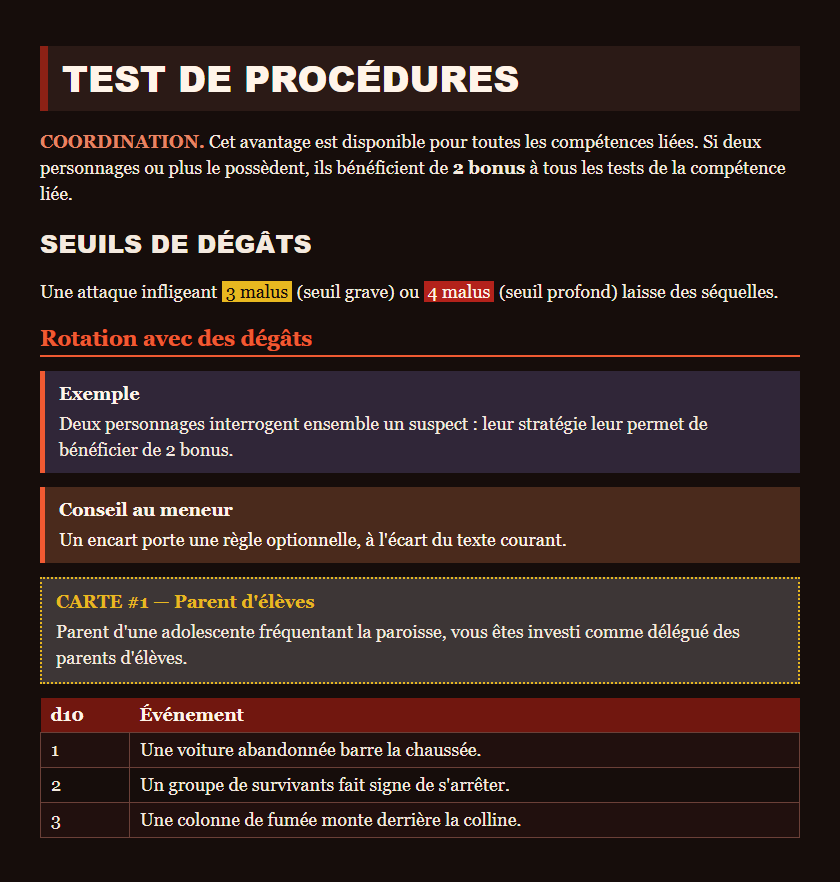
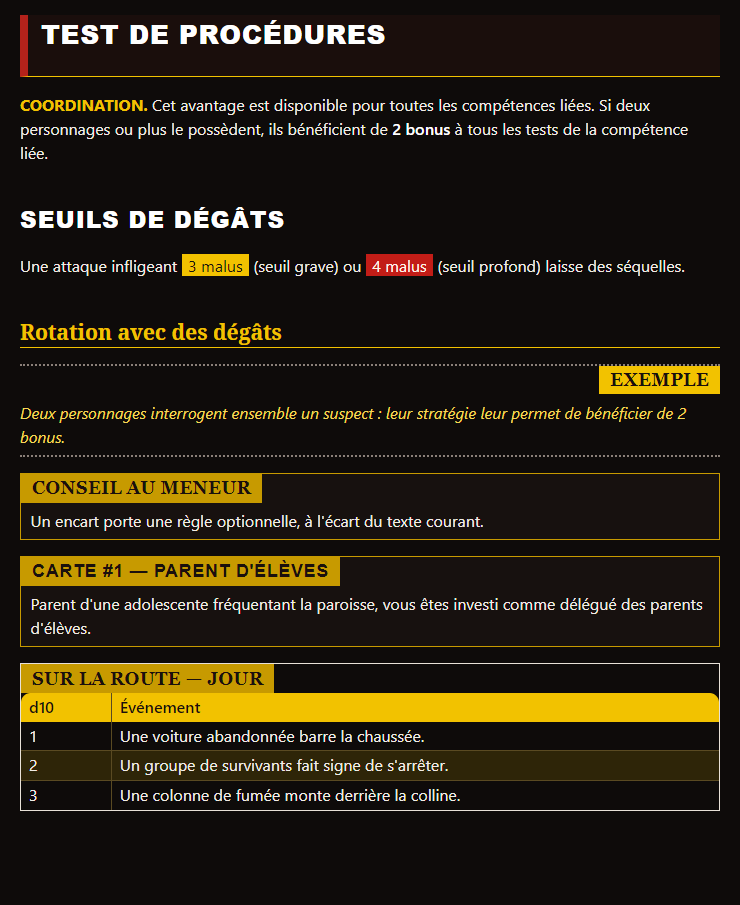
docs(readme): refresh the Handbook captures from Obsidian 1.14.4
The pack and settings captures are real Obsidian renderings with the
Handbook plugin (schema v6.1.0, appearance pack 0.13.0) instead of
Playwright mock-ups; the PJ sheet capture is refreshed the same way.

diff --git a/README.md b/README.md
@@ -18,7 +18,7 @@ Une fiche de personnage Zombiology rendue dans Obsidian par Handbook, thème som
 
 ![Fiche PJ Zombiology rendue dans Obsidian par Handbook](docs/images/handbook-fiche-pj.png)
 
-Le même pack existe en polarité claire. Ces deux captures sont rendues par Playwright à partir des jetons, polices et textures de `handbook/adrenaline/pack.json` : c'est une mise en page de référence construite depuis le pack, pas une capture d'Obsidian.
+Le même pack existe en polarité claire. Ces deux captures sont de vraies captures d'Obsidian 1.14.4 avec le plugin Handbook : la note de test porte un titre, un mot-clé, un seuil de dégâts, des encarts et une table de lancer, rendus avec les jetons, polices et textures de `handbook/adrenaline/pack.json`.
 
 ![Jetons du pack Adrenaline, polarité claire](docs/images/pack-light.png)
 ![Jetons du pack Adrenaline, polarité sombre](docs/images/pack-dark.png)
